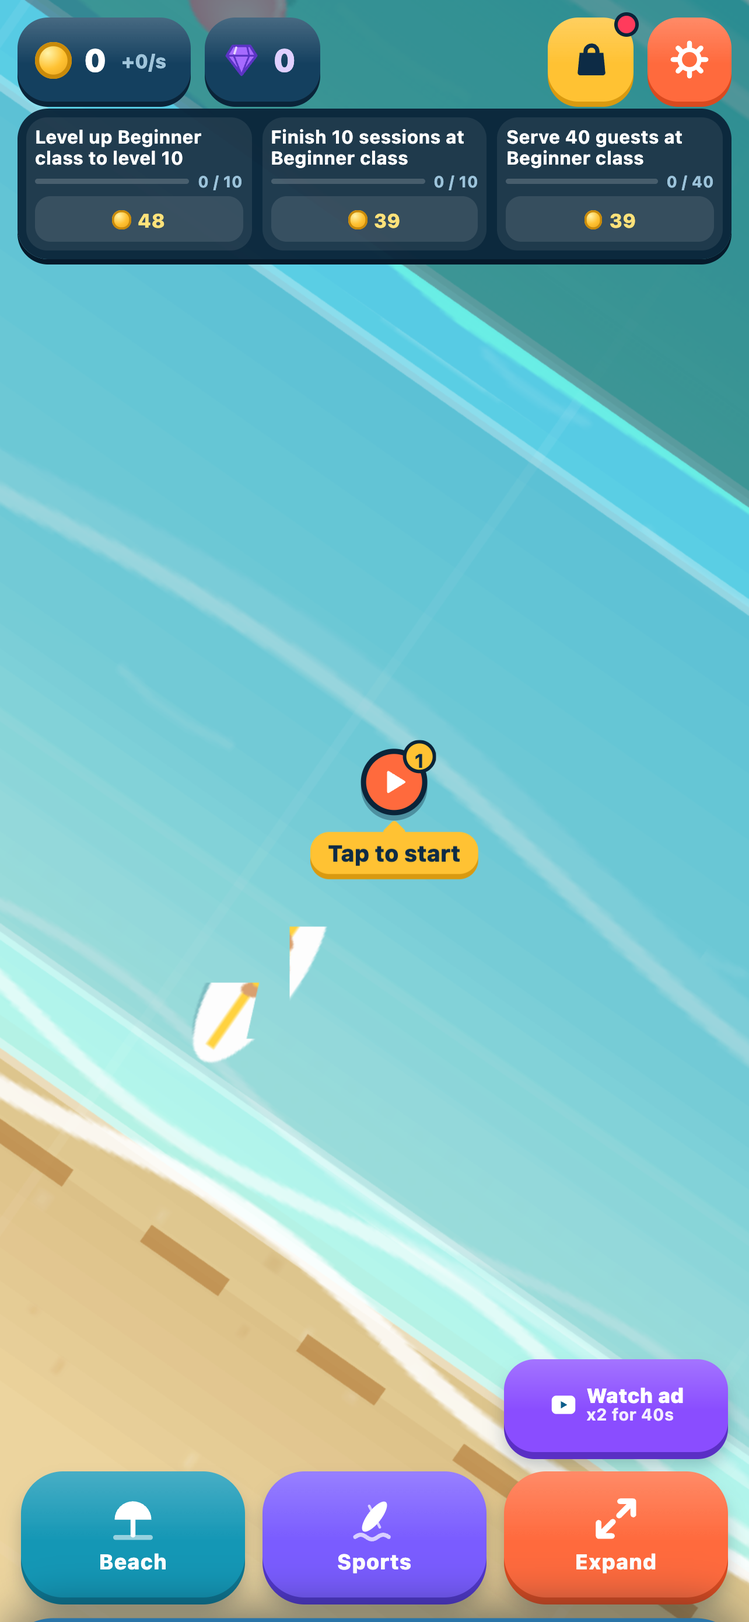
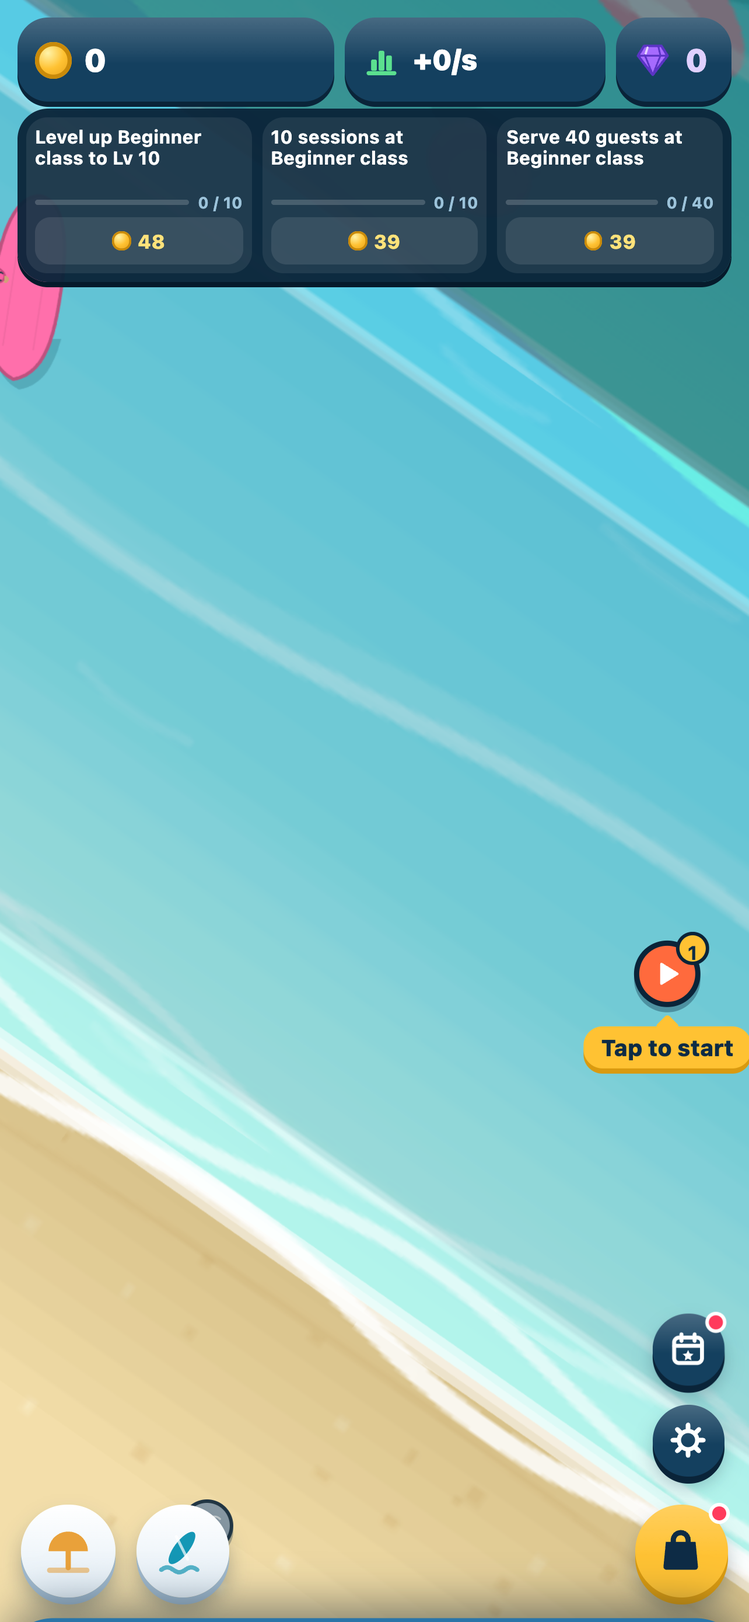
Store documentation: Terms (treasure boxes + odds, Surf Club, calendar), privacy (ad breaks), listing (loot-box age rating, Belgium), store check, new screenshots

diff --git a/src/config/legal.ts b/src/config/legal.ts
@@ -3,12 +3,18 @@
 // purchases, no tracking). They are a starting point, not legal advice: before a store release, fill in
 // the name and contact details of the publisher and have the texts checked.
 
+import { BOX_ODDS, BOXES, RARITIES, RARITY_LOOK } from './skins';
+import { CLUB } from './shop';
+
+/** The odds of a box as text, from the game's own numbers: "Common 50%, Rare 36%, ...". */
+const odds = (kind: 'normal' | 'golden') => RARITIES.map((r) => `${RARITY_LOOK[r].name} ${BOX_ODDS[kind][r]}%`).join(', ');
+
 export interface LegalSection {
   title: string;
   body: string;
 }
 
-export const LEGAL_UPDATED = '21 September 2026';
+export const LEGAL_UPDATED = '14 November 2026';
 
 /**
  * Who publishes the game. FILL THIS IN before a store release: the stores (and the law in many countries) want a
@@ -30,29 +36,32 @@ export function contactText(): string {
 
 export const TERMS: LegalSection[] = [
   { title: '1. About this game', body: 'Surf Tycoon is a free idle game about running a water-sports spot. By playing it you agree to these terms. If you do not agree, please do not play.' },
-  { title: '2. Free to play and the shop', body: 'The game is free to play. In the phone apps you can choose to watch video ads for bonuses (gems, coins x2), and you can buy optional items in the shop: packs of gems (which you can buy as often as you like) and two one-time items, "Remove ads" and "Coins x5". Prices are shown in the shop in your own currency. Purchases are paid through the App Store or Google Play, are for your own use on your own account, and the one-time items can be restored with "Restore purchases" in the shop. Gems that were bought and spent cannot be restored or refunded by us. The Surf Club is a monthly subscription (price shown in the shop, in your own currency): it gives coins x2, ad rewards without ads, 3 gems a day and 2 extra hours of away time for as long as it is active. It renews automatically every month until you cancel it in the settings of your App Store or Google Play account (cancel at least 24 hours before the renewal date to avoid the next charge); you keep the benefits until the paid period ends. We cannot cancel it for you. Refunds follow the rules of the store you bought from. Coins, gems and everything else in the game have no value outside the game and cannot be exchanged for money.' },
-  { title: '3. Your progress', body: 'Your progress is saved on your own device. If you clear the data of the app or the browser, or use "Start over" in the menu, your progress is gone. We cannot restore lost progress.' },
-  { title: '4. Fair play', body: 'You may play the game for your own enjoyment. Please do not copy, sell or pass off the game as your own, and do not try to break or misuse it.' },
-  { title: '5. No promises', body: 'The game is provided "as is". It is still being built, so things can change, get rebalanced or contain mistakes. We do not promise that it will always work or be available, and we are not responsible for any loss that comes from playing it, as far as the law allows.' },
-  { title: '6. Changes', body: 'We may change the game or these terms. When we do, the date below changes. If you keep playing after a change, you accept the new terms.' },
-  { title: '7. Contact', get body() { return `Questions about these terms? ${contactText()}`; } },
+  { title: '2. Free to play and the shop', body: `The game is free to play. In the phone apps short ad breaks show every few minutes (never in the first minutes of play), and you can choose to watch video ads for bonuses (gems, coins x2, the rescue helicopter's gift). In the shop you can buy optional items: packs of gems (as often as you like), coins for gems, treasure boxes, and two one-time items, "Remove ads" and "Coins x5". Prices are shown in the shop in your own currency. Purchases are paid through the App Store or Google Play, are for your own use on your own account, and the one-time items can be restored with "Restore purchases" in the shop. Gems that were bought and spent cannot be restored or refunded by us. Coins, gems, skins and everything else in the game have no value outside the game and cannot be exchanged for money or traded.` },
+  { title: '3. Treasure boxes and chance', body: `A treasure box gives one piece of a skin; which skin is drawn by chance. The odds are shown in the shop before you buy, behind the "?" of each box. A normal box: ${odds('normal')}. A golden box: ${odds('golden')}. Boxes can be earned for free (quests, new sections, the daily calendar, the rescue helicopter, the Surf Club) or bought: the coin box with in-game coins (${BOXES.coinStart.toLocaleString('en')} coins for the first, each next one costs ${BOXES.coinGrowth} times more), 3 boxes for ${BOXES.threeGems} gems, a golden box for ${BOXES.goldenGems} gems. The draw is fixed when the box is opened and is saved, so it cannot be changed by reloading. Surf Club skins never come from boxes. The rescue helicopter's gift and when it comes are also decided by chance. Nothing else in the game is random.` },
+  { title: '4. The Surf Club', body: `The Surf Club is a monthly subscription (price shown in the shop, in your own currency). For as long as it is active it gives coins x${CLUB.coinMult}, ad rewards without watching ads and no ad breaks, ${CLUB.gemsPerDay} gems and ${CLUB.boxesPerDay} treasure box once every 24 hours (claimed in the shop; missed days do not add up), ${CLUB.awayHours} extra hours of away time, and a Surf Club skin each month: on the 1st of the month, or right away when you join, you get that month's skin. A month's skin is only given during that month to members; a missed month is not given later. Skins you have received stay yours after the subscription ends. The subscription renews automatically every month until you cancel it in the settings of your App Store or Google Play account (cancel at least 24 hours before the renewal date to avoid the next charge); you keep the benefits until the paid period ends. We cannot cancel it for you. Refunds follow the rules of the store you bought from.` },
+  { title: '5. Daily rewards', body: 'The daily rewards calendar gives one reward for each day you play, and a new calendar starts on the 1st of each month. It uses the date of your device.' },
+  { title: '6. Your progress', body: 'Your progress is saved on your own device. If you clear the data of the app or the browser, or use "Start over" in the menu, your progress is gone. We cannot restore lost progress.' },
+  { title: '7. Fair play', body: 'You may play the game for your own enjoyment. Please do not copy, sell or pass off the game as your own, and do not try to break or misuse it.' },
+  { title: '8. No promises', body: 'The game is provided "as is". It is still being built, so things can change, get rebalanced or contain mistakes. We do not promise that it will always work or be available, and we are not responsible for any loss that comes from playing it, as far as the law allows.' },
+  { title: '9. Changes', body: 'We may change the game or these terms. When we do, the date below changes. If you keep playing after a change, you accept the new terms.' },
+  { title: '10. Contact', get body() { return `Questions about these terms? ${contactText()}`; } },
 ];
 
 export const PRIVACY: LegalSection[] = [
-  { title: 'The short version', body: 'Surf Tycoon does not collect any personal data itself and has no account or server. Everything you build stays on your device. The only exception is the optional video ad in the phone apps, which is shown by Google AdMob (see "Ads").' },
-  { title: 'What is stored', body: 'Your game progress (coins, zones, upgrades and so on), the time it was last saved, and your sound setting. This is stored on your device only, in the local storage of the app or browser.' },
+  { title: 'The short version', body: 'Surf Tycoon does not collect any personal data itself and has no account or server. Everything you build stays on your device. The only exception is the ads in the phone apps, which are shown by Google AdMob (see "Ads").' },
+  { title: 'What is stored', body: 'Your game progress (coins, zones, upgrades, skins, treasure boxes, the daily calendar and so on), the time it was last saved, what you bought, and your sound setting. This is stored on your device only, in the local storage of the app or browser.' },
   { title: 'What is not collected', body: 'The game itself collects no name, no email address, no account, no location, no contacts and no analytics. The game does not connect to any server of ours to run.' },
-  { title: 'Ads', body: 'The phone apps have optional rewarded video ads (the "Watch ad" button and the ad streak in the shop). They are provided by Google AdMob. When you watch one, Google and its ad partners may use your device advertising ID and collect device and usage information to show and measure ads and to prevent fraud, as described in Google\'s privacy policy (policies.google.com/privacy). On iPhone the app first asks whether apps may track you: if you say no, you still get ads but they are not personalised. In the European Economic Area, the UK and Switzerland a consent form asks about your choices before any ad is loaded. If you never watch an ad, no ad is requested. We do not receive any of this data.' },
+  { title: 'Ads', body: 'The phone apps show ads from Google AdMob: optional rewarded video ads (the "Watch ad" buttons, the ad streak in the shop, the rescue helicopter) and short ad breaks every few minutes. "Remove ads" and the Surf Club turn the ad breaks off and give the rewards without ads. When an ad is shown, Google and its ad partners may use your device advertising ID and collect device and usage information to show and measure ads and to prevent fraud, as described in Google\'s privacy policy (policies.google.com/privacy). On iPhone the app first asks whether apps may track you: if you say no, you still get ads but they are not personalised. In the European Economic Area, the UK and Switzerland a consent form asks about your choices before any ad is loaded. We do not receive any of this data.' },
   { title: 'Purchases', body: 'Payments for gem packs, "Remove ads", "Coins x5" and the Surf Club subscription are handled entirely by Apple or Google. We never see your name, card or other payment details. The game only learns whether the store says you own an item or your subscription is active, and remembers that on your device.' },
   { title: 'Third parties', body: 'Apart from Google AdMob for the optional ads and the App Store or Google Play for purchases, there are no third-party services in the game. If you play in a web browser, the website that hosts the game can see normal technical information (like your IP address) in its own logs, as with any website.' },
   { title: 'Your choices', body: 'You can delete all data the game stores at any time with "Start over" in the menu, or by clearing the site or app data.' },
-  { title: 'Children', body: 'The game does not ask for any personal information. Ads are optional and only start when you choose to watch one.' },
+  { title: 'Children', body: 'The game does not ask for any personal information.' },
   { title: 'Changes and contact', get body() { return `If this ever changes (for example when online features are added), this policy will be updated before it does. ${contactText()}`; } },
 ];
 
 export const CREDITS = [
   ['Game design', 'The author of the Surf Tycoon concept'],
   ['Built with', 'Phaser 4, TypeScript and Vite'],
-  ['Art and icons', 'Drawn in code, no downloaded art'],
+  ['Art and icons', 'Drawn in code; skin designs by the author and a friend'],
   ['Sound', 'Made with the Web Audio API'],
 ] as const;

diff --git a/public/terms.html b/public/terms.html
@@ -19,14 +19,17 @@
 <body>
 <main>
 <h1>Terms of Service</h1>
-<p class="date">Surf Tycoon &middot; last updated 21 September 2026</p>
+<p class="date">Surf Tycoon &middot; last updated 14 November 2026</p>
 <section><h2>1. About this game</h2><p>Surf Tycoon is a free idle game about running a water-sports spot. By playing it you agree to these terms. If you do not agree, please do not play.</p></section>
-<section><h2>2. Free to play and the shop</h2><p>The game is free to play. In the phone apps you can choose to watch video ads for bonuses (gems, coins x2), and you can buy optional items in the shop: packs of gems (which you can buy as often as you like) and two one-time items, "Remove ads" and "Coins x5". Prices are shown in the shop in your own currency. Purchases are paid through the App Store or Google Play, are for your own use on your own account, and the one-time items can be restored with "Restore purchases" in the shop. Gems that were bought and spent cannot be restored or refunded by us. The Surf Club is a monthly subscription (price shown in the shop, in your own currency): it gives coins x2, ad rewards without ads, 3 gems a day and 2 extra hours of away time for as long as it is active. It renews automatically every month until you cancel it in the settings of your App Store or Google Play account (cancel at least 24 hours before the renewal date to avoid the next charge); you keep the benefits until the paid period ends. We cannot cancel it for you. Refunds follow the rules of the store you bought from. Coins, gems and everything else in the game have no value outside the game and cannot be exchanged for money.</p></section>
-<section><h2>3. Your progress</h2><p>Your progress is saved on your own device. If you clear the data of the app or the browser, or use "Start over" in the menu, your progress is gone. We cannot restore lost progress.</p></section>
-<section><h2>4. Fair play</h2><p>You may play the game for your own enjoyment. Please do not copy, sell or pass off the game as your own, and do not try to break or misuse it.</p></section>
-<section><h2>5. No promises</h2><p>The game is provided "as is". It is still being built, so things can change, get rebalanced or contain mistakes. We do not promise that it will always work or be available, and we are not responsible for any loss that comes from playing it, as far as the law allows.</p></section>
-<section><h2>6. Changes</h2><p>We may change the game or these terms. When we do, the date below changes. If you keep playing after a change, you accept the new terms.</p></section>
-<section><h2>7. Contact</h2><p>Questions about these terms? Contact MugStudio at woutschiks@gmail.com with questions.</p></section>
+<section><h2>2. Free to play and the shop</h2><p>The game is free to play. In the phone apps short ad breaks show every few minutes (never in the first minutes of play), and you can choose to watch video ads for bonuses (gems, coins x2, the rescue helicopter's gift). In the shop you can buy optional items: packs of gems (as often as you like), coins for gems, treasure boxes, and two one-time items, "Remove ads" and "Coins x5". Prices are shown in the shop in your own currency. Purchases are paid through the App Store or Google Play, are for your own use on your own account, and the one-time items can be restored with "Restore purchases" in the shop. Gems that were bought and spent cannot be restored or refunded by us. Coins, gems, skins and everything else in the game have no value outside the game and cannot be exchanged for money or traded.</p></section>
+<section><h2>3. Treasure boxes and chance</h2><p>A treasure box gives one piece of a skin; which skin is drawn by chance. The odds are shown in the shop before you buy, behind the "?" of each box. A normal box: Common 50%, Rare 36%, Epic 10%, Legendary 4%. A golden box: Common 0%, Rare 14%, Epic 33%, Legendary 53%. Boxes can be earned for free (quests, new sections, the daily calendar, the rescue helicopter, the Surf Club) or bought: the coin box with in-game coins (50,000 coins for the first, each next one costs 3 times more), 3 boxes for 20 gems, a golden box for 40 gems. The draw is fixed when the box is opened and is saved, so it cannot be changed by reloading. Surf Club skins never come from boxes. The rescue helicopter's gift and when it comes are also decided by chance. Nothing else in the game is random.</p></section>
+<section><h2>4. The Surf Club</h2><p>The Surf Club is a monthly subscription (price shown in the shop, in your own currency). For as long as it is active it gives coins x2, ad rewards without watching ads and no ad breaks, 5 gems and 1 treasure box once every 24 hours (claimed in the shop; missed days do not add up), 2 extra hours of away time, and a Surf Club skin each month: on the 1st of the month, or right away when you join, you get that month's skin. A month's skin is only given during that month to members; a missed month is not given later. Skins you have received stay yours after the subscription ends. The subscription renews automatically every month until you cancel it in the settings of your App Store or Google Play account (cancel at least 24 hours before the renewal date to avoid the next charge); you keep the benefits until the paid period ends. We cannot cancel it for you. Refunds follow the rules of the store you bought from.</p></section>
+<section><h2>5. Daily rewards</h2><p>The daily rewards calendar gives one reward for each day you play, and a new calendar starts on the 1st of each month. It uses the date of your device.</p></section>
+<section><h2>6. Your progress</h2><p>Your progress is saved on your own device. If you clear the data of the app or the browser, or use "Start over" in the menu, your progress is gone. We cannot restore lost progress.</p></section>
+<section><h2>7. Fair play</h2><p>You may play the game for your own enjoyment. Please do not copy, sell or pass off the game as your own, and do not try to break or misuse it.</p></section>
+<section><h2>8. No promises</h2><p>The game is provided "as is". It is still being built, so things can change, get rebalanced or contain mistakes. We do not promise that it will always work or be available, and we are not responsible for any loss that comes from playing it, as far as the law allows.</p></section>
+<section><h2>9. Changes</h2><p>We may change the game or these terms. When we do, the date below changes. If you keep playing after a change, you accept the new terms.</p></section>
+<section><h2>10. Contact</h2><p>Questions about these terms? Contact MugStudio at woutschiks@gmail.com with questions.</p></section>
 <footer><a href="privacy.html">Privacy Policy</a></footer>
 </main>
 </body>

diff --git a/public/privacy.html b/public/privacy.html
@@ -19,15 +19,15 @@
 <body>
 <main>
 <h1>Privacy Policy</h1>
-<p class="date">Surf Tycoon &middot; last updated 21 September 2026</p>
-<section><h2>The short version</h2><p>Surf Tycoon does not collect any personal data itself and has no account or server. Everything you build stays on your device. The only exception is the optional video ad in the phone apps, which is shown by Google AdMob (see "Ads").</p></section>
-<section><h2>What is stored</h2><p>Your game progress (coins, zones, upgrades and so on), the time it was last saved, and your sound setting. This is stored on your device only, in the local storage of the app or browser.</p></section>
+<p class="date">Surf Tycoon &middot; last updated 14 November 2026</p>
+<section><h2>The short version</h2><p>Surf Tycoon does not collect any personal data itself and has no account or server. Everything you build stays on your device. The only exception is the ads in the phone apps, which are shown by Google AdMob (see "Ads").</p></section>
+<section><h2>What is stored</h2><p>Your game progress (coins, zones, upgrades, skins, treasure boxes, the daily calendar and so on), the time it was last saved, what you bought, and your sound setting. This is stored on your device only, in the local storage of the app or browser.</p></section>
 <section><h2>What is not collected</h2><p>The game itself collects no name, no email address, no account, no location, no contacts and no analytics. The game does not connect to any server of ours to run.</p></section>
-<section><h2>Ads</h2><p>The phone apps have optional rewarded video ads (the "Watch ad" button and the ad streak in the shop). They are provided by Google AdMob. When you watch one, Google and its ad partners may use your device advertising ID and collect device and usage information to show and measure ads and to prevent fraud, as described in Google's privacy policy (policies.google.com/privacy). On iPhone the app first asks whether apps may track you: if you say no, you still get ads but they are not personalised. In the European Economic Area, the UK and Switzerland a consent form asks about your choices before any ad is loaded. If you never watch an ad, no ad is requested. We do not receive any of this data.</p></section>
+<section><h2>Ads</h2><p>The phone apps show ads from Google AdMob: optional rewarded video ads (the "Watch ad" buttons, the ad streak in the shop, the rescue helicopter) and short ad breaks every few minutes. "Remove ads" and the Surf Club turn the ad breaks off and give the rewards without ads. When an ad is shown, Google and its ad partners may use your device advertising ID and collect device and usage information to show and measure ads and to prevent fraud, as described in Google's privacy policy (policies.google.com/privacy). On iPhone the app first asks whether apps may track you: if you say no, you still get ads but they are not personalised. In the European Economic Area, the UK and Switzerland a consent form asks about your choices before any ad is loaded. We do not receive any of this data.</p></section>
 <section><h2>Purchases</h2><p>Payments for gem packs, "Remove ads", "Coins x5" and the Surf Club subscription are handled entirely by Apple or Google. We never see your name, card or other payment details. The game only learns whether the store says you own an item or your subscription is active, and remembers that on your device.</p></section>
 <section><h2>Third parties</h2><p>Apart from Google AdMob for the optional ads and the App Store or Google Play for purchases, there are no third-party services in the game. If you play in a web browser, the website that hosts the game can see normal technical information (like your IP address) in its own logs, as with any website.</p></section>
 <section><h2>Your choices</h2><p>You can delete all data the game stores at any time with "Start over" in the menu, or by clearing the site or app data.</p></section>
-<section><h2>Children</h2><p>The game does not ask for any personal information. Ads are optional and only start when you choose to watch one.</p></section>
+<section><h2>Children</h2><p>The game does not ask for any personal information.</p></section>
 <section><h2>Changes and contact</h2><p>If this ever changes (for example when online features are added), this policy will be updated before it does. Contact MugStudio at woutschiks@gmail.com with questions.</p></section>
 <footer><a href="terms.html">Terms of Service</a></footer>
 </main>

diff --git a/scripts/store-check.ts b/scripts/store-check.ts
@@ -2,7 +2,8 @@
 // It lists what is ready and what still needs a person (accounts, contact details, signing).
 import fs from 'node:fs';
 import { PUBLISHER } from '../src/config/legal';
-import { BALANCE } from '../src/config/balance';
+import { offlineCap } from '../src/core/economy';
+import { newGame } from '../src/core/state';
 
 const read = (p: string) => (fs.existsSync(p) ? fs.readFileSync(p, 'utf8') : '');
 const pkg = JSON.parse(read('package.json'));
@@ -29,8 +30,17 @@ console.log('--- the game');
 ok('no test or cheat options in the game', !/100e9|Add 100B|testAlwaysExpand/.test(src));
 ok('unlimited test coins are off (VITE_TEST_COINS is not set)', process.env.VITE_TEST_COINS !== '1', 'unset VITE_TEST_COINS before a store build');
 ok('debug hook only in development or with ?debug', /import\.meta\.env\.DEV \|\| location\.search\.includes\('debug'\)/.test(src));
-ok('no random numbers in the game', !/Math\.random/.test(fs.readdirSync('src', { recursive: true }).filter((f) => String(f).endsWith('.ts')).map((f) => read('src/' + f)).join('\n')));
-ok('base away time is 2 hours', BALANCE.offlineCapSeconds === 2 * 3600);
+// Nothing is random except the author's two exceptions: the rescue helicopter's prize and timing (Math.random in
+// src/core/plane.ts) and what a treasure box gives (a generator kept in the save, so a reload cannot reroll a box).
+const code = (f: string) => read(f).replace(/\/\*[\s\S]*?\*\//g, '').replace(/\/\/.*$/gm, '');
+const randomFiles = fs
+  .readdirSync('src', { recursive: true })
+  .map(String)
+  .filter((f) => f.endsWith('.ts') && /Math\.random/.test(code('src/' + f)));
+ok('random numbers only for the helicopter (src/core/plane.ts)', randomFiles.length === 1 && randomFiles[0].replace(/\\/g, '/') === 'core/plane.ts', randomFiles.join(', '));
+ok('treasure boxes draw from a generator kept in the save', /seed/.test(read('src/core/skins.ts')) && /function random\(state: GameState\)/.test(read('src/core/skins.ts')));
+ok('away time of a new game is 2 hours', offlineCap(newGame(0)) === 2 * 3600);
+ok('the model lab page is not in the store build', !fs.existsSync('dist/lab.html'), 'it is a development tool (lab.html)');
 console.log('--- identity and versions');
 ok('app id is not a placeholder (com.example)', !!appId && !appId.startsWith('com.example'), 'set appId in capacitor.config.ts, then npm run phone:id');
 ok('Android applicationId matches', gradle.includes(`applicationId "${appId}"`), 'run npm run phone:id');
@@ -49,6 +59,11 @@ ok('store screenshots made', fs.existsSync('store/screenshots/iphone-6.9/01-star
 console.log('--- legal');
 ok('privacy and terms pages exist', fs.existsSync('public/privacy.html') && fs.existsSync('public/terms.html'), 'run npm run build');
 ok('publisher name and contact email are filled in (src/config/legal.ts)', !!PUBLISHER.name && /.+@.+\..+/.test(PUBLISHER.email), 'the stores and the law want a real contact');
+const terms = read('public/terms.html');
+const listing = read('store/listing.md');
+ok('Terms explain the treasure boxes and their odds', /treasure box/i.test(terms) && /odds/i.test(terms), 'scripts/build-legal-pages.ts');
+ok('Terms explain the Surf Club (monthly skin, daily gems and box)', /Surf Club/.test(terms) && /skin/i.test(terms), 'scripts/build-legal-pages.ts');
+ok('store listing answers the age rating with random paid items (treasure boxes)', /random/i.test(listing) && /treasure box/i.test(listing) && !/Loot boxes or random rewards: \*\*none\*\*/.test(listing), 'store/listing.md');
 console.log('--- only a person can do these');
 person('Apple Developer Program account (99 USD a year), an App Store Connect app record with this bundle id', 'developer.apple.com');
 person('Google Play Console account (25 USD once), an app with this package name', 'play.google.com/console');

diff --git a/store/listing.md b/store/listing.md
@@ -9,7 +9,7 @@ Fill in the names in `[brackets]`. Nothing here has been submitted.
 | Subtitle / short description | Run your own surf beach (max 30) | Build a surf beach and grow it into a sea-sport empire. (max 80) |
 | Category | Games > Simulation (second: Casual) | Game > Simulation |
 | Price | Free | Free |
-| In-app purchases / ads | 5 in-app purchases (3 gem packs consumable, Remove ads and Coins x5 one-time) + 1 auto-renewing subscription (Surf Club, monthly); contains ads (optional rewarded video) | same: 3 consumable + 2 one-time products + 1 subscription with a monthly base plan; contains ads |
+| In-app purchases / ads | 5 in-app purchases (3 gem packs consumable, Remove ads and Coins x5 one-time) + 1 auto-renewing subscription (Surf Club, monthly); contains ads (rewarded video and short ad breaks); treasure boxes with random contents (odds shown in the shop) | same: 3 consumable + 2 one-time products + 1 subscription with a monthly base plan; contains ads; in-game purchases include random items |
 | Languages | English | English |
 | Support URL / email | [your support page or email] | [your support email] |
 | Privacy policy URL | [the address where you host `public/privacy.html`] | same |
@@ -24,17 +24,20 @@ Turn a quiet beach into a busy sea-sport spot. Hire managers, unlock new sports 
 ## Description (both stores)
 Run your own beach! Surf Tycoon is a relaxing idle game about a water-sports spot.
 
-Start with a few kids in bright vests on small, rolling waves. Earn coins, upgrade your classes, hire managers who keep everything running, and unlock more: longboarders, the reef, the giant waves of Nazaré, skimboarding, windsurfing, kitesurfing, foil and wing, and sailing.
+Start with a few kids in bright vests on small, rolling waves. Earn coins, upgrade your classes, hire managers who keep everything running, and unlock more: longboarders, the reef, the giant waves of Nazaré, skimboarding, windsurfing, kitesurfing, foil and wing, and sailing, plus beach volleyball and beach soccer on the sand.
 
 FEATURES
-• Six water sports with four levels each, from beginner classes to pros only
+• Six water sports with four levels each, from beginner classes to pros only, and beach sports on the sand
 • Watch your guests: surfers ride the waves, skimboarders slide, windsurfers tack, kitesurfers jump, foilers glide and sailors race
+• Over 70 skins for boards, sails, kites and wings: collect pieces from treasure boxes, unlock Bronze and Silver for bigger bonuses
 • Idle earnings: managers keep working while you are away (2 hours to start with, more with skills)
 • Upgrade a thousand levels with big bonuses on the way, buy x10, x100 or Max, or just hold the button
-• Quests with coin rewards
-• Expand the beach: a giant wave washes over the screen, you start over faster than before and all your income goes up for good
+• Quests, a daily rewards calendar and a rescue helicopter that brings gifts
+• Skill trees, expansions and rebirths: a giant wave washes over the screen, you start over faster than before and your income goes up for good
 • A big map you can swipe and zoom, with a reef, a rock arch and a red lighthouse on the cliff
-• No account needed, your game stays on your device. Optional video ads give you double coins or gems, and the shop has gem packs plus two optional one-time purchases (Remove ads, Coins x5).
+• No account needed, your game stays on your device.
+
+The game is free to play with ads (short ad breaks and optional video ads for bonuses). The shop has gem packs, treasure boxes (the odds are shown before you buy), two optional one-time purchases (Remove ads, Coins x5) and the Surf Club, a monthly subscription with an exclusive skin every month.
 
 ## What's new (first release)
 First release.
@@ -43,9 +46,9 @@ First release.
 Five products. The ids must match `PRODUCTS[].storeId` and `GEM_PACKS[].storeId` in `src/config/shop.ts`. The gem packs are **consumable** (App Store: Consumable; Google Play: a normal in-app product, which the app consumes after payout); Remove ads and Coins x5 are **non-consumable**.
 | Product | Id | Price | Reference name / description |
 |---|---|---|---|
-| Remove ads | `nl.mugstudio.surftycoon.removeads` | 2.99 EUR (tier of your choice) | "Remove ads": every ad reward without watching an ad |
+| Remove ads | `nl.mugstudio.surftycoon.removeads` | 2.99 EUR (tier of your choice) | "Remove ads": no ad breaks, and every ad reward without watching an ad |
 | Coins x5 | `nl.mugstudio.surftycoon.coins5x` | 4.99 EUR | "Coins x5": all coin income x5 for good |
-| **Surf Club (subscription)** | `nl.mugstudio.surftycoon.club` (Google base plan id: `monthly`) | 3.99 EUR / month | "Surf Club": coins x2, ad rewards without ads, 3 gems a day, +2 hours away time |
+| **Surf Club (subscription)** | `nl.mugstudio.surftycoon.club` (Google base plan id: `monthly`) | 3.99 EUR / month | "Surf Club": an exclusive skin every month, coins x2, no ads (rewards without ads), 5 gems and a treasure box every day, +2 hours away time |
 | 20 gems | `nl.mugstudio.surftycoon.gems20` | 0.99 EUR | "20 gems": skill points for the skill trees (consumable) |
 | 100 gems | `nl.mugstudio.surftycoon.gems100` | 3.99 EUR | "100 gems" (consumable) |
 | 300 gems | `nl.mugstudio.surftycoon.gems300` | 9.99 EUR | "300 gems" (consumable) |
@@ -55,25 +58,34 @@ Five products. The ids must match `PRODUCTS[].storeId` and `GEM_PACKS[].storeId`
 * Review notes: the shop opens with the bag button in the top bar.
 
 ## Age rating answers
-* Violence, sexual content, nudity, profanity, drugs, alcohol, gambling (including simulated), horror, medical content: **none**.
+* Violence, sexual content, nudity, profanity, drugs, alcohol, horror, medical content: **none**. Gambling or simulated gambling (casino games): **none**.
 * Unrestricted web access: no. User-generated content / chat: none.
-* Loot boxes or random rewards: **none** (the game has no randomness at all). In-app purchases: yes (two fixed one-time items, no random content).
-* Expected result: **App Store 4+**, **Google Play (IARC) Everyone**.
+* **Random paid items: yes.** Treasure boxes give a random skin piece. They are bought with in-game coins (coin box) or with gems (3 boxes, golden box), and gems can be bought with real money. The odds are shown in the shop before buying (the "?" on every box), as Apple guideline 3.1.1 and Google Play require. The items cannot be traded, sold or cashed out. The rescue helicopter's gift is also random, but it is free (watch an ad).
+  * App Store Connect, age rating questionnaire: answer **Yes** to "Loot boxes" (paid random items). Apple sets the rating from the answers.
+  * Google Play (IARC questionnaire): **Yes** to "random items that can be bought with real money (loot boxes)"; the listing then shows "In-Game Purchases (Includes Random Items)".
+* In-app purchases: yes.
+* Expected result: Google Play (IARC) **Everyone** with "In-Game Purchases (Includes Random Items)"; App Store: whatever the questionnaire gives (check it before submitting).
+
+## Countries (loot boxes)
+* **Belgium**: the gambling regulator treats paid random items (loot boxes) as gambling, so do **not** release the game in Belgium as long as treasure boxes can be bought. App Store Connect: Pricing and Availability > App Availability > untick Belgium. Google Play: Production > Countries/regions > remove Belgium.
+* The Netherlands: allowed, because the skins cannot be traded or sold outside the game.
+* Everywhere: show the odds before buying (done) and do not let players trade or cash out items (the game has no trading).
 
 ## Google Play "Data safety" form
 * Does the app collect or share any user data? **Yes, through Google AdMob (the ad SDK)**: Device or other IDs (advertising ID), and app interactions / diagnostics as the AdMob SDK reports. Purpose: Advertising or marketing, Analytics/fraud prevention. Not collected by us, shared with Google. Purchases: handled by Google Play, no purchase data reaches us. Follow Google's "Data disclosure for AdMob" guide for the exact boxes.
 * Is all data encrypted in transit? Yes (the ad SDK uses HTTPS).
 * Can users request that their data is deleted? Data is only on the device; "Start over" in the menu deletes it.
-* Ads: **Yes, the app contains ads** (rewarded video, AdMob). Target audience: **13+** is not required to be chosen; choose "all ages" only if you also fill in the Families policy. The safest choice for a first release is target age **18+ not needed / 13+ general audience**; the game itself is suitable for all ages.
+* Ads: **Yes, the app contains ads** (rewarded video and short ad breaks / interstitials, AdMob). Target audience: **13+** is not required to be chosen; choose "all ages" only if you also fill in the Families policy. The safest choice for a first release is target age **18+ not needed / 13+ general audience**; the game itself is suitable for all ages.
 * Government / financial / health apps: no.
 
 ## App Store "App Privacy" label
-* Data used to **track you**: Device ID, Advertising Data, Product Interaction (all for Third-Party Advertising, not linked to identity). Follow Google's "Apple App Privacy" guide for AdMob to check the boxes. The app asks for tracking permission (App Tracking Transparency) the first time "Watch ad" is tapped. The privacy manifest (`ios/App/App/PrivacyInfo.xcprivacy`) says the same: tracking on, the Google ad domains, those three data types, one required-reason API (UserDefaults, reason CA92.1, used by the web view).
+* Data used to **track you**: Device ID, Advertising Data, Product Interaction (all for Third-Party Advertising, not linked to identity). Follow Google's "Apple App Privacy" guide for AdMob to check the boxes. The app asks for tracking permission (App Tracking Transparency) before the first ad. The privacy manifest (`ios/App/App/PrivacyInfo.xcprivacy`) says the same: tracking on, the Google ad domains, those three data types, one required-reason API (UserDefaults, reason CA92.1, used by the web view).
 * Age rating: answer the ads questions truthfully. Do not turn on "child directed" (the game is not a Families app).
 * Export compliance: the app uses no encryption of its own (`ITSAppUsesNonExemptEncryption = false`).
 
 ## Review notes (App Store Connect, "Notes for the reviewer")
 No login is needed. The game is fully playable offline. Progress is saved on the device. Tap the round badge on the wave surfing zone to start earning, open the zone to buy upgrades. To see the expansion animation a player needs to reach the requirements shown on the Expand screen.
+Treasure boxes are in the shop (the bag button in the top bar). The odds of every box are shown before buying: tap the "?" on the box. Box contents are cosmetic skins (with an in-game income bonus); they cannot be traded or sold. The Surf Club subscription is at the top of the shop: it shows its price, that it renews monthly until cancelled, a Manage subscription button and the Terms and Privacy links. A member gets the month's exclusive skin right away (shown at the top of the Skins screen).
 
 ## Pictures
 * Icon 1024×1024: `store/icon-1024.png` (opaque, no alpha).

diff --git a/DECISIONS.md b/DECISIONS.md
@@ -568,3 +568,12 @@ The author asked for the whole dim-the-screen tutorial to go ("not 100% working"
     | mid | 24 -> 60 | 59% -> 0% | 100% -> 49% | 22 -> 25 MB |
     | late | 23 -> 60 | 61% -> 0% | 100% -> 68% | 43 -> 30 MB |
   - The smoke test passes. The look is unchanged (compared with screenshots before and after).
+- **App Store documentation brought up to date** (14 Nov 2026):
+  - Terms: the shop with coins for gems and treasure boxes; a section on treasure boxes and chance, with the odds taken from the game's own numbers; the Surf Club with the monthly skin, 5 gems and a box a day; the daily calendar.
+  - Privacy Policy: the ad breaks, so ads are no longer only optional.
+  - store/listing.md:
+    - Age rating: paid random items (treasure boxes) = yes, with the answers for both questionnaires.
+    - Countries: not in Belgium while boxes can be bought; the Netherlands is fine because nothing can be traded.
+    - The new Surf Club perks, the description and the reviewer notes.
+  - The store check now allows exactly the two random exceptions (Math.random only for the helicopter; boxes from a generator kept in the save). It also checks the 2 h away time, that the lab page is not in the build, and that the Terms and listing explain the boxes.
+  - New store screenshots (also a Skins screen and the new Surf Club card), made from the production build; the calendar no longer pops up in them.
